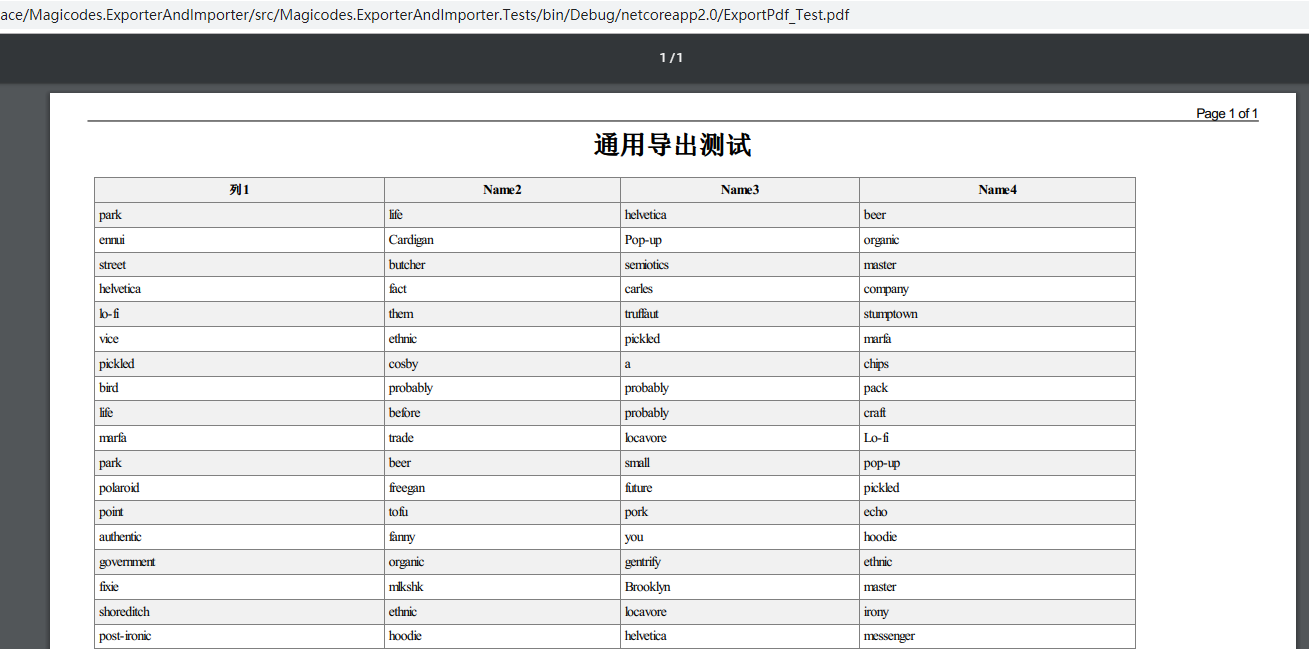
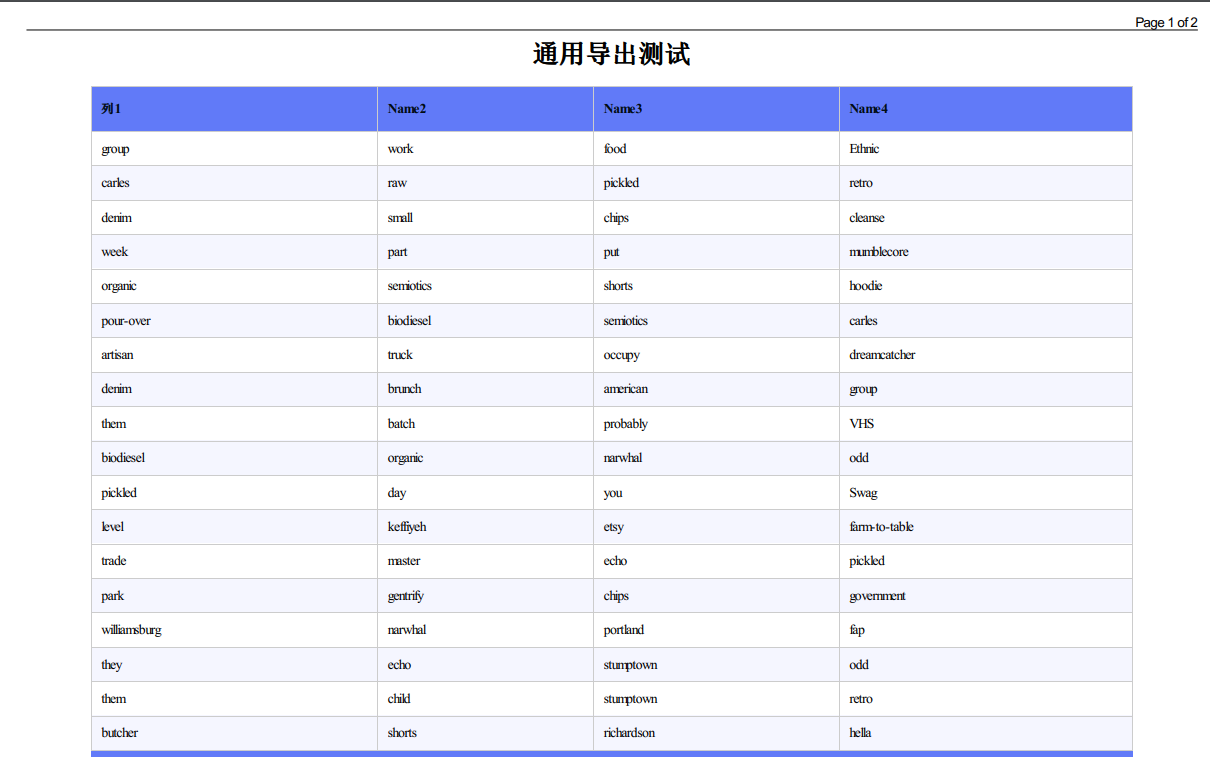
完善单元测试 更新导出的默认模板

diff --git a/src/Magicodes.ExporterAndImporter.Tests/Models/ImportRowDataErrorDto.cs b/src/Magicodes.ExporterAndImporter.Tests/Models/ImportRowDataErrorDto.cs
@@ -20,7 +20,7 @@ using System.ComponentModel.DataAnnotations;
 
 namespace Magicodes.ExporterAndImporter.Tests.Models
 {
-    public class ImportProductDto
+    public class ImportRowDataErrorDto
     {
         /// <summary>
         ///     产品名称
@@ -32,8 +32,9 @@ namespace Magicodes.ExporterAndImporter.Tests.Models
         /// <summary>
         ///     产品代码
         ///         长度验证
+        ///         重复验证
         /// </summary>
-        [ImporterHeader(Name = "产品代码", Description = "最大长度为20", AutoTrim = false)]
+        [ImporterHeader(Name = "产品代码", Description = "最大长度为20", AutoTrim = false, IsAllowRepeat = false)]
         [MaxLength(20, ErrorMessage = "产品代码最大长度为20（中文算两个字符）")]
         public string Code { get; set; }
 
@@ -54,7 +55,7 @@ namespace Magicodes.ExporterAndImporter.Tests.Models
         /// <summary>
         ///     产品型号
         /// </summary>
-        [ImporterHeader(Name = "产品型号")]
+        [ImporterHeader(Name = "产品型号",IsAllowRepeat = false)]
         public string Model { get; set; }
 
         /// <summary>

diff --git a/README.md b/README.md
@@ -4,32 +4,32 @@
 
 ### 特点
 
-- 封装导入导出业务,目前仅支持 Excel,后续将支持 CSV 以及其他业务
-- 配置特性即可控制相关逻辑和显示结果，无需修改逻辑代码
-- 推荐配合 DTO 使用，支持通过DTO以及相关特性控制导入导出
-- 导出支持列头自定义处理以便支持多语言等场景
-- 导出支持文本自定义过滤或处理
-- 导入支持自动根据 DTO 生成导入模板,针对必填项将自动标注
+- 需配合相关导入导出的DTO模型使用，支持通过DTO以及相关特性控制导入导出。配置特性即可控制相关逻辑和显示结果，无需修改逻辑代码；
+![](./res/导入Dto.png "导入Dto")
+- 导出支持列头自定义处理以便支持多语言等场景；
+- 导出支持文本自定义过滤或处理；
+- 导入支持中间空行自动跳过；
+- 导入支持自动根据 DTO 生成导入模板,针对必填项将自动标注；
 ![](./res/自动生成的导入模板.png "自动生成的导入模板")
-- 导入支持数据下拉选择，目前仅支持枚举类型
-- 导入数据支持前后空格以及中间空格处理，允许指定列进行设置
-- 导入支持模板自动检查，数据自动校验，异常统一处理，并提供统一的错误封装，包含异常、模板错误和行数据错误
+- 导入支持数据下拉选择，目前仅支持枚举类型；
+- 导入数据支持前后空格以及中间空格处理，允许指定列进行设置；
+- 导入支持模板自动检查，数据自动校验，异常统一处理，并提供统一的错误封装，包含异常、模板错误和行数据错误；
 ![](./res/数据错误统一返回.png "数据错误")
-- 支持导入表头位置设置，默认为1
-- 支持导入列乱序，无需按顺序一一对应
-- 支持导入指定列索引，默认自动识别
-- 支持将导入Excel进行错误标注
+- 支持导入表头位置设置，默认为1；
+- 支持导入列乱序，无需按顺序一一对应；
+- 支持导入指定列索引，默认自动识别；
+- 支持将导入Excel进行错误标注；
 ![](./res/数据错误.png "数据错误标注")
 ![](./res/多个错误.png "多个错误")
-- 导入支持截止列设置，如未设置则默认遇到空格截止
-- 支持导出HTML、Word、Pdf，支持自定义导出模板
+- 导入支持截止列设置，如未设置则默认遇到空格截止；
+- 支持导出HTML、Word、Pdf，支持自定义导出模板；
   - 导出HTML
 ![](./res/导出html.png "导出HTML")
   - 导出Word
 ![](./res/导出Word.png "导出Word")
   - 导出Pdf
 ![](./res/导出Pdf.png "导出Pdf")
-- 导入支持重复验证
+- 导入支持重复验证；
 ![](./res/重复错误.png "重复错误.png")
 
 ### 相关官方Nuget包
